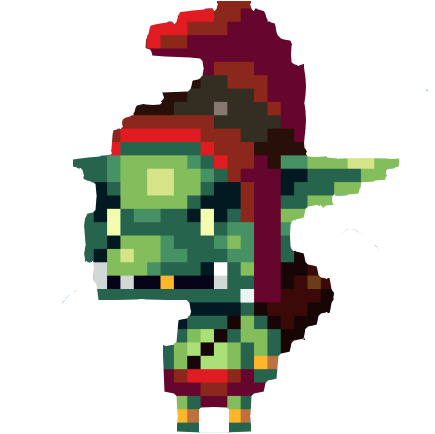
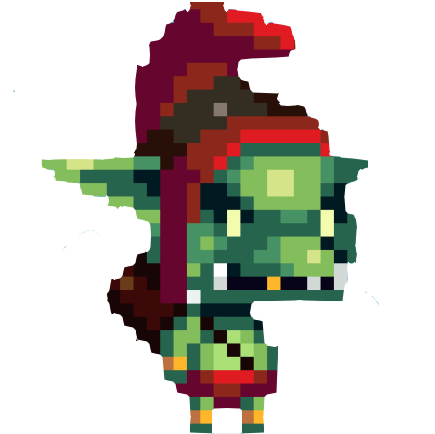
added true x/y and character facing

diff --git a/character.py b/character.py
@@ -2,6 +2,7 @@ import random
 from attack import *
 
 
+
 class Character:
     def __init__(self, x, y):
         self.x = x                              # x coordinate of object
@@ -14,26 +15,12 @@ class Character:
         self.max_health = None                  # maximum health of object
         self.char_img = None                    # image for the object
         self.atk_img = None                     # image for the object's attack
+        self.true_x = None                      # the x coordinate of the center of the image
+        self.true_y = None                      # the y coordinate of the center of the image
 
     def draw(self, window):
         window.blit(self.char_img, (self.x, self.y))
         self.healthbar(window)
-
-    def attack(self, dx, dy, spd):
-        if self.cd_counter == 0:
-            new_attack = Attack(self.x, self.y, dx, dy, 0.5*self.atk, spd, self.atk_img)
-            if not new_attack.off_screen(WIDTH, HEIGHT):
-                pygame.mixer.Sound.play(blast_sound)
-            self.cd_counter = 1
-            return new_attack
-        return None
-
-    def cooldown(self):
-        # attack is ready if cd_counter reaches the object's atk_cd
-        if self.cd_counter >= self.atk_cd:
-            self.cd_counter = 0
-        elif self.cd_counter > 0:
-            self.cd_counter += 1
 
     def healthbar(self, window):
         pygame.draw.rect(window, (255,0,0),
@@ -43,17 +30,20 @@ class Character:
 
     def knocked_back(self, x, y, kb_dist):
         # unit is knocked back towards the opposite direction of (x,y)
-        dx = x - self.x
-        dy = y - self.y
+        dx = x - self.true_x
+        dy = y - self.true_y
         dist = math.sqrt(dx*dx + dy*dy)
         self.x -= kb_dist * (dx/dist)
         self.y -= kb_dist * (dy/dist)
+        self.true_x -= kb_dist * (dx/dist)
+        self.true_y -= kb_dist * (dy/dist)
 
     def get_width(self):
         return self.char_img.get_width()
 
     def get_height(self):
         return self.char_img.get_height()
+
 
 
 class Hero(Character):
@@ -66,6 +56,8 @@ class Hero(Character):
         self.max_health = 100
         self.char_img = HIKARI
         self.atk_img = WIND_ARROW
+        self.true_x = self.x + self.get_width()/2
+        self.true_y = self.y + self.get_height()/2
         self.mask = pygame.mask.from_surface(self.char_img)
         self.attacks = []   # a list that stores all the player's attacks
 
@@ -75,12 +67,22 @@ class Hero(Character):
             attack.draw(window)
         self.healthbar(window)
 
+    def cooldown(self):
+        # attack is ready if cd_counter reaches the object's atk_cd
+        if self.cd_counter >= self.atk_cd:
+            self.cd_counter = 0
+        elif self.cd_counter > 0:
+            self.cd_counter += 1
+
     def attack(self, dx, dy, spd):
         if self.cd_counter == 0:
-            # adjust the x/y coordinates a bit based on the image size
-            x = self.x + (self.get_width()- 15)/2
-            y = self.y + (self.get_height()-15)/2
-            new_attack = Attack(x, y, dx, dy, self.atk, spd, self.atk_img)
+            # adjust which way the character will face
+            if dx > 0:
+                self.char_img = HIKARI
+            elif dx < 0:
+                self.char_img = pygame.transform.flip(HIKARI, True, False)
+            # adjust the x/y coordinates a bit based on the image size (-7.5)
+            new_attack = Attack(self.true_x-7.5, self.true_y-7.5, dx, dy, self.atk, spd, self.atk_img)
             pygame.mixer.Sound.play(arrow_sound)
             self.attacks.append(new_attack)
             self.cd_counter = 1
@@ -96,13 +98,14 @@ class Hero(Character):
                 for obj in objs:
                     if attack.collision(obj):
                         obj.health -= attack.dmg
-                        obj.knocked_back(self.x, self.y, 0.5*obj.get_width())
+                        obj.knocked_back(self.true_x, self.true_y, 0.5*obj.get_width())
                         if obj.health <= 0:
                             objs.remove(obj)
                         if attack in self.attacks: self.attacks.remove(attack)
 
 
-class EnemyRed(Character):
+
+class Enemy(Character):
     def __init__(self, x, y):
         super().__init__(x, y)
         self.mov_spd = 2
@@ -111,19 +114,39 @@ class EnemyRed(Character):
         self.health = 200
         self.max_health = 200
         self.char_img = GOBLIN
+        self.facing = "left"
         self.atk_img = PD_21_BULLET
+        self.true_x = self.x + self.get_width()/2
+        self.true_y = self.y + self.get_height()/2
         self.mask = pygame.mask.from_surface(self.char_img)
+
+    def calc_dxdy(self, x, y):
+        # calculate the delta_x and delta_y from unit to target as a value in [0,1] where dx + dy = 1
+        dx = x - self.true_x
+        dy = y - self.true_y
+        dist = math.sqrt(dx * dx + dy * dy)
+        return dx / dist, dy / dist
 
     def chase(self, x, y):
         # move towards the given (x,y) coordinate
-        dx = x - self.x
-        dy = y - self.y
+        dx = x - self.true_x
+        dy = y - self.true_y
         dist = math.sqrt(dx*dx + dy*dy)
         self.x += self.mov_spd * dx/dist
         self.y += self.mov_spd * dy/dist
+        self.true_x += self.mov_spd * dx/dist
+        self.true_y += self.mov_spd * dy/dist
+        # adjust which way the character will face
+        if self.facing == "left" and dx < 0:
+            self.facing = "right"
+            self.char_img = pygame.transform.flip(self.char_img, True, False)
+        elif self.facing == "right" and dx > 0:
+            self.facing = "left"
+            self.char_img = pygame.transform.flip(self.char_img, True, False)
 
 
-class EnemyBlue(Character):
+
+class EnemyRanged(Enemy):
     def __init__(self, x, y):
         super().__init__(x, y)
         self.mov_spd = 1
@@ -133,26 +156,32 @@ class EnemyBlue(Character):
         self.health = 100
         self.max_health = 100
         self.char_img = CROW
+        self.facing = "left"
         self.atk_img = PD_21_BULLET
+        self.true_x = self.x + self.get_width()/2
+        self.true_y = self.y + self.get_height()/2
         self.mask = pygame.mask.from_surface(self.char_img)
 
-    def calc_dxdy(self, x, y):
-        # calculate the delta_x and delta_y from unit to target as a value in [0,1] where dx + dy = 1
-        dx = x - self.x
-        dy = y - self.y
-        dist = math.sqrt(dx * dx + dy * dy)
-        return dx / dist, dy / dist
+    def cooldown(self):
+        # attack is ready if cd_counter reaches the object's atk_cd
+        if self.cd_counter >= self.atk_cd:
+            self.cd_counter = 0
+        elif self.cd_counter > 0:
+            self.cd_counter += 1
 
-    def chase(self, x, y):
-        # move towards the given (x,y) coordinate
-        dx = x - self.x
-        dy = y - self.y
-        dist = math.sqrt(dx * dx + dy * dy)
-        self.x += self.mov_spd * dx / dist
-        self.y += self.mov_spd * dy / dist
+    def attack(self, dx, dy, spd):
+        # adjust the x/y coordinates a bit based on the atk_img size (-7.5)
+        if self.cd_counter == 0:
+            new_attack = Attack(self.true_x-7.5, self.true_y-7.5, dx, dy, 0.5*self.atk, spd, self.atk_img)
+            if not new_attack.off_screen(WIDTH, HEIGHT):
+                pygame.mixer.Sound.play(blast_sound)
+            self.cd_counter = 1
+            return new_attack
+        return None
 
 
-class EnemyBoss(Character):
+
+class EnemyBoss(EnemyRanged):
     def __init__(self, x, y):
         super().__init__(x, y)
         self.mov_spd = 1.5
@@ -162,42 +191,21 @@ class EnemyBoss(Character):
         self.health = 2500
         self.max_health = 2500
         self.char_img = TRUE_DEVIL_CAIN
+        self.facing = "left"
         self.atk_img = MD_21_BULLET
+        self.true_x = self.x + self.get_width()/2
+        self.true_y = self.y + self.get_height()/2
         self.mask = pygame.mask.from_surface(self.char_img)
 
     def knocked_back(self, x, y, kb_dist):
         # unit is knocked back towards the opposite direction of (x,y)
-        dx = x - self.x
-        dy = y - self.y
+        dx = x - self.true_x
+        dy = y - self.true_y
         dist = math.sqrt(dx*dx + dy*dy)
         self.x -= kb_dist * (dx/dist) * 0.25
         self.y -= kb_dist * (dy/dist) * 0.25
-
-    def calc_dxdy(self, x, y):
-        # calculate the delta_x and delta_y from unit to target as a value in [0,1] where dx + dy = 1
-        dx = x - self.x
-        dy = y - self.y
-        dist = math.sqrt(dx*dx + dy*dy)
-        return dx/dist, dy/dist
-
-    def chase(self, x, y):
-        # move towards the given (x,y) coordinate
-        dx = x - self.x
-        dy = y - self.y
-        dist = math.sqrt(dx*dx + dy*dy)
-        self.x += self.mov_spd * dx/dist
-        self.y += self.mov_spd * dy/dist
-
-    def hoover(self):
-        dx = random.random()
-        dy = 1 - dx
-        # 50/50 to decide whether dx and dy are positive or negative
-        if random.random() <= 0.5:
-            dx = -dx
-        if random.random() <= 0.5:
-            dy = -dy
-        self.x += self.mov_spd * dx
-        self.y += self.mov_spd * dy
+        self.true_x -= kb_dist * (dx / dist) * 0.25
+        self.true_y -= kb_dist * (dy / dist) * 0.25
 
     def attack(self, dx, dy, spd):
         # fire multiple attacks in the shape of a fan
@@ -210,7 +218,7 @@ class EnemyBoss(Character):
                 new_dy = math.sin(math.radians(angle))
                 new_dx = -new_dx if dx < 0 else new_dx
                 new_dy = -new_dy if dx < 0 else new_dy
-                shot = Attack(self.x, self.y, new_dx, new_dy, 0.5*self.atk, spd, self.atk_img)
+                shot = Attack(self.true_x, self.true_y, new_dx, new_dy, 0.5*self.atk, spd, self.atk_img)
                 shots.append(shot)
             if not shots[2].off_screen(WIDTH, HEIGHT):
                 pygame.mixer.Sound.play(laser_sound)

diff --git a/main.py b/main.py
@@ -22,7 +22,7 @@ endless_waves = [[0, 0, 0]]
 adventure_waves = [[5, 0, 0],
                    [0, 5, 0],
                    [5, 5, 0],
-                   [5,10, 0],
+                   [8, 8, 0],
                    [0, 0, 1]]
 
 
@@ -160,9 +160,9 @@ def main(game_mode):
                 elif side == "bottom":
                     randx, randy = random.randrange(0, WIDTH), random.randrange(HEIGHT+100, HEIGHT+1000)
                 if i < red:
-                    enemy = EnemyRed(randx, randy)
+                    enemy = Enemy(randx, randy)
                 elif i < red+blue:
-                    enemy = EnemyBlue(randx, randy)
+                    enemy = EnemyRanged(randx, randy)
                 else:
                     enemy = EnemyBoss(randx, randy)
                 enemies.append(enemy)
@@ -171,29 +171,32 @@ def main(game_mode):
         keys = pygame.key.get_pressed()
         if keys[pygame.K_LEFT] and player.x - player.mov_spd > 0:   # left
             player.x -= player.mov_spd
+            player.true_x -= player.mov_spd
         if keys[pygame.K_RIGHT] and player.x + player.mov_spd + player.get_width() < WIDTH:  # right
             player.x += player.mov_spd
+            player.true_x += player.mov_spd
         if keys[pygame.K_UP] and player.y - player.mov_spd > 0:     # up
             player.y -= player.mov_spd
+            player.true_y -= player.mov_spd
         if keys[pygame.K_DOWN] and player.y + player.mov_spd + player.get_height() < HEIGHT:  # down
             player.y += player.mov_spd
+            player.true_y += player.mov_spd
         if keys[pygame.K_w]:
             player.attack(0,-1, 15)
-        if keys[pygame.K_a]:
-            player.attack(-1, 0, 15)
         if keys[pygame.K_s]:
             player.attack(0, 1, 15)
         if keys[pygame.K_d]:
             player.attack(1, 0, 15)
+        if keys[pygame.K_a]:
+            player.attack(-1, 0, 15)
 
         # player attack with mouse, or quit the game
         for event in events:
             if event.type == pygame.MOUSEBUTTONDOWN:
                 x, y = event.pos[0], event.pos[1]
-                dx, dy = x-(player.x+player.get_width()/2), y-(player.y+player.get_height()/2)
+                dx, dy = x-player.true_x, y-player.true_y
                 dist = math.sqrt(dx * dx + dy * dy)
                 dx, dy = dx / dist, dy / dist
-                print(dx, dy)
                 player.attack(dx, dy, 15)
             if event.type == pygame.QUIT:
                 quit()
@@ -201,29 +204,25 @@ def main(game_mode):
         # update each enemy's movement and action
         for enemy in enemies[:]:
             # Enemy:MELEE
-            if isinstance(enemy, EnemyRed):
-                enemy.chase(player.x, player.y)
+            enemy.chase(player.true_x, player.true_y)
+            dx, dy = enemy.calc_dxdy(player.true_x, player.true_y)
             # Enemy:RANGED
-            elif isinstance(enemy, EnemyBlue):
-                enemy.chase(player.x, player.y)
+            if type(enemy) is EnemyRanged:
                 enemy.cooldown()
-                dx,dy = enemy.calc_dxdy(player.x, player.y)
                 new_attack = enemy.attack(dx, dy, 5)
                 if new_attack:
                     enemies_attacks.append(new_attack)
             # Enemy:BOSS
-            elif isinstance(enemy, EnemyBoss):
+            elif type(enemy) is EnemyBoss:
                 # chase if off-screen, else hoover in screen
-                enemy.chase(player.x, player.y)
                 enemy.cooldown()
-                dx, dy = enemy.calc_dxdy(player.x, player.y)
                 boss_attack = enemy.attack(dx, dy, 5)
                 if boss_attack:
                     for shot in boss_attack:
                         enemies_attacks.append(shot)
             if collide(enemy, player):
                 player.health -= enemy.atk
-                player.knocked_back(enemy.x, enemy.y, player.get_width())
+                player.knocked_back(enemy.true_x, enemy.true_y, player.get_width())
 
         # move the player's attack, and check for any attack collision
         player.move_attack(enemies)
@@ -236,7 +235,7 @@ def main(game_mode):
             else:
                 if attack.collision(player):
                     player.health -= attack.dmg
-                    player.knocked_back(attack.x, attack.y, 0.5*player.get_width())
+                    player.knocked_back(attack.true_x, attack.true_y, 0.5*player.get_width())
                     if attack in enemies_attacks: enemies_attacks.remove(attack)
 
 

diff --git a/attack.py b/attack.py
@@ -4,8 +4,8 @@ from assets import *
 
 # given two object, check whether their masks collide
 def collide(obj1, obj2):
-    offset_x = int(obj2.x - obj1.x)
-    offset_y = int(obj2.y - obj1.y)
+    offset_x = int(obj2.true_x - obj1.true_x)
+    offset_y = int(obj2.true_y - obj1.true_y)
     return obj1.mask.overlap(obj2.mask, (offset_x, offset_y)) != None
 
 
@@ -18,6 +18,8 @@ class Attack:
         self.dmg = dmg                      # the amount of damage this attack will do
         self.spd = spd                      # how fast the attack will be moving
         self.img = img
+        self.true_x = self.x + self.img.get_width()/2
+        self.true_y = self.y + self.img.get_height()/2
         self.mask = pygame.mask.from_surface(self.img)
         # if dx is not 0, determine how the attack should rotate to face the target
         if dx > 0:
@@ -33,9 +35,12 @@ class Attack:
     def move(self):
         self.x += self.dx * self.spd
         self.y += self.dy * self.spd
+        self.true_x += self.dx * self.spd
+        self.true_y += self.dy * self.spd
+
 
     def off_screen(self, width, height):
-        return self.x < 0 or self.x > width or self.y < 0 or self.y > height
+        return self.true_x < 0 or self.true_x > width or self.true_y < 0 or self.true_y > height
 
     def collision(self, obj):
         return collide(self, obj)
